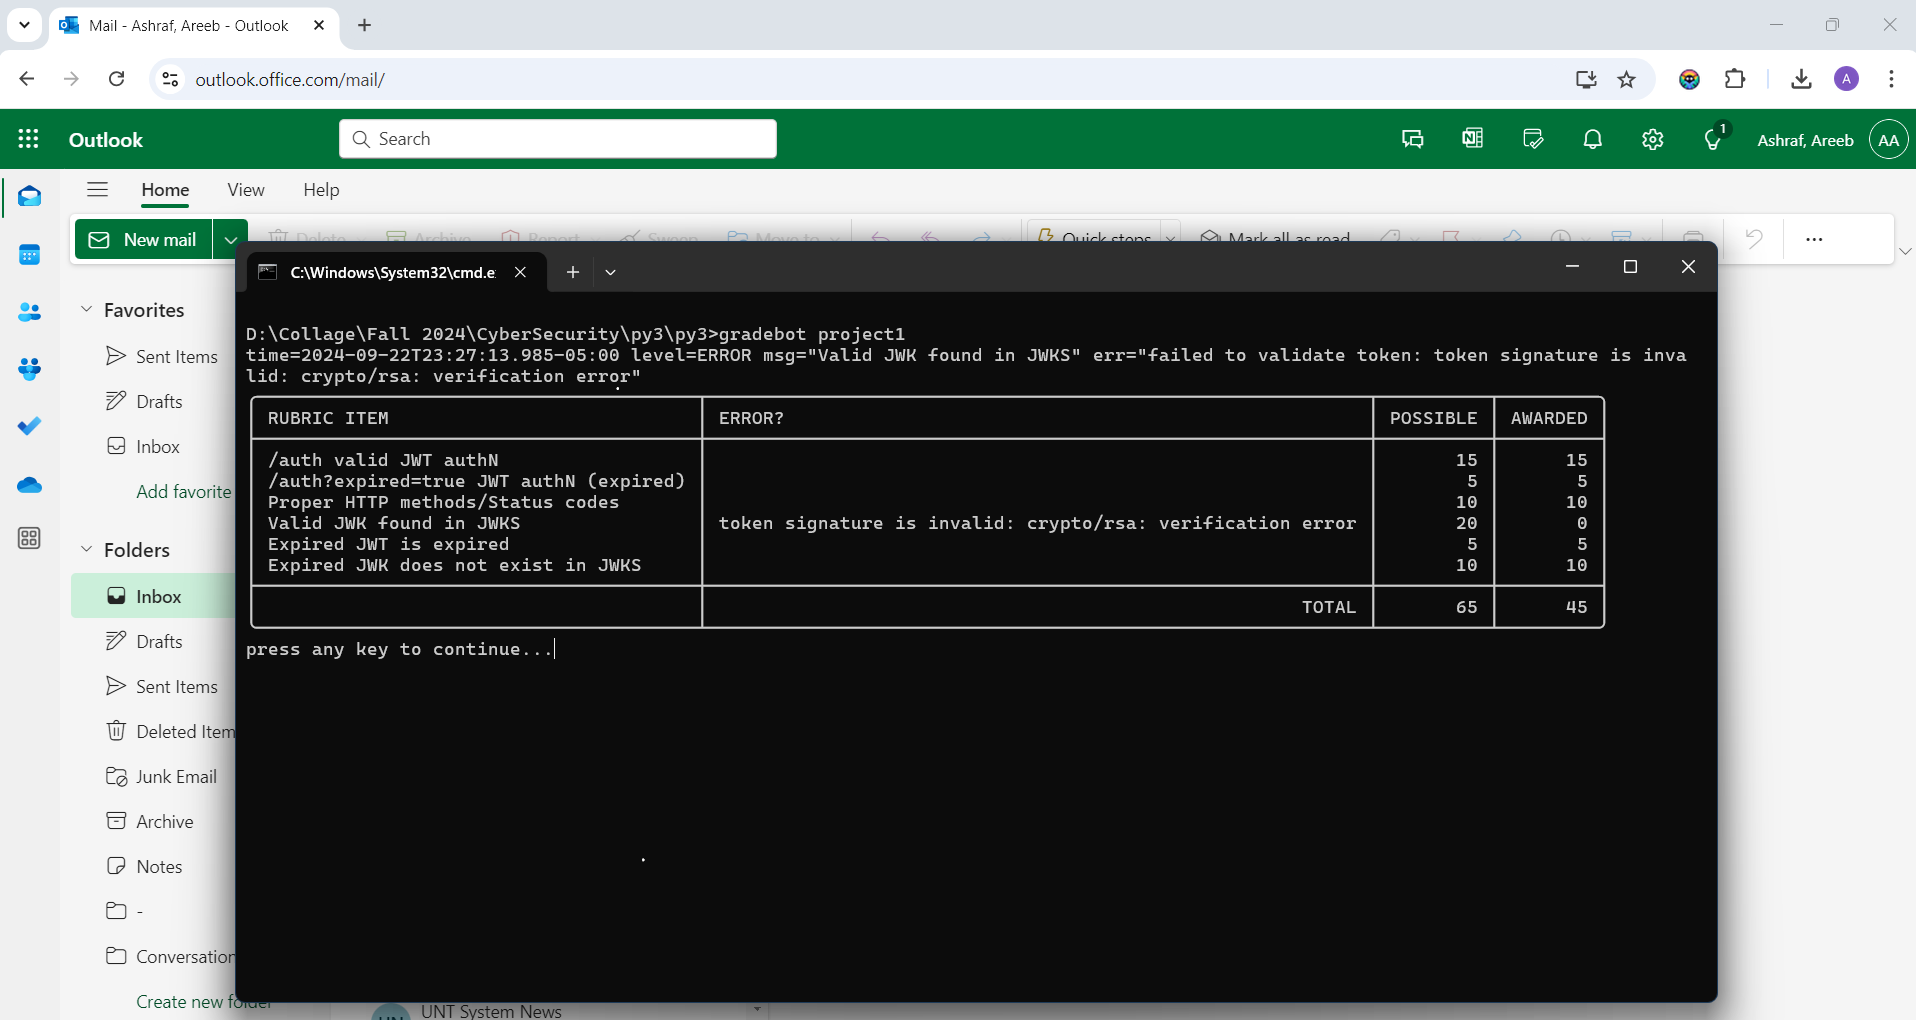
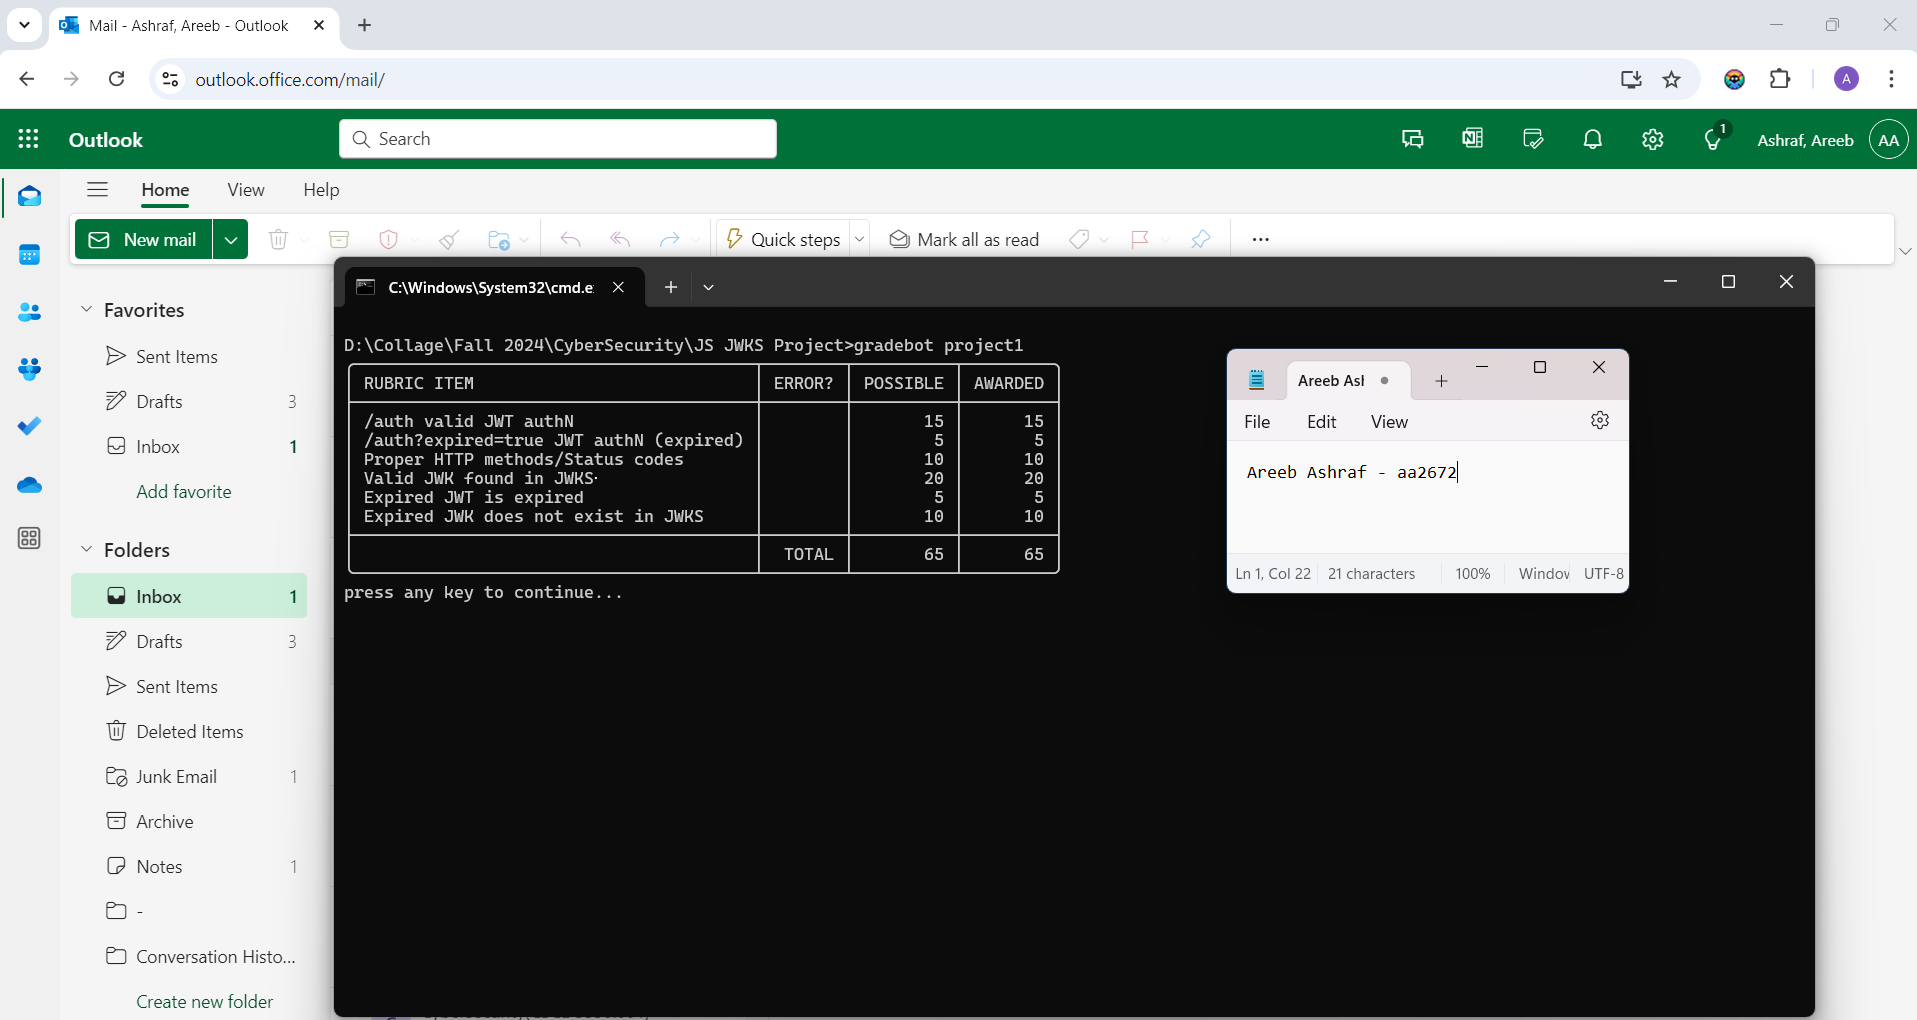
jwks

diff --git a/server.js b/server.js
@@ -10,22 +10,18 @@ const port = 8080; // Define the port where the server will listen
 
 // Function to generate RSA key pairs (private and public keys)
 function createRsaKeys() {
-  // Generate RSA key pair with 2048 bits and a public exponent of 65537 (0x10001)
   const keyPair = forge.pki.rsa.generateKeyPair({ bits: 2048, e: 0x10001 });
   return keyPair;
 }
 
-// Generate two key pairs: one for the active key and another for an expired key
+// Generate key pairs
 const activeKeyPair = createRsaKeys();
 const expiredKeyPair = createRsaKeys();
 
-// Helper function to convert large integers to Base64URL-encoded strings
+// Helper function to properly convert large integers to Base64URL-encoded strings
 function integerToBase64(value) {
-  // Convert the integer to a hexadecimal string
-  const hexValue = value.toString(16);
-  // Convert the hex string to a Buffer and then to Base64URL
-  const byteBuffer = Buffer.from(hexValue, "hex");
-  return base64url(byteBuffer); // Return Base64URL-encoded result
+  const byteBuffer = Buffer.from(value.toString(16), "hex");
+  return base64url(byteBuffer);
 }
 
 // Function to get the PEM-formatted private key from the key pair
@@ -33,52 +29,45 @@ function getPemPrivateKey(keyPair) {
   return forge.pki.privateKeyToPem(keyPair.privateKey);
 }
 
-// Convert the private keys to PEM format
+// Convert private keys to PEM format
 const activePrivateKeyPem = getPemPrivateKey(activeKeyPair);
 const expiredPrivateKeyPem = getPemPrivateKey(expiredKeyPair);
 
-// Middleware to handle unsupported HTTP methods (PUT, PATCH, DELETE, HEAD)
+// Middleware for unsupported HTTP methods
 app.use((req, res, next) => {
-  // If the method is unsupported, respond with a 405 status
   if (["PUT", "PATCH", "DELETE", "HEAD"].includes(req.method)) {
-    res.status(405).send("Method Not Allowed");
-  } else {
-    next(); // Otherwise, pass the request to the next middleware
+    return res.status(405).send("Method Not Allowed");
   }
+  next();
 });
 
 // POST /auth endpoint for JWT creation
 app.post("/auth", (req, res) => {
-  const isTokenExpired = req.query.expired; // Check if the request is asking for an expired token
+  const isTokenExpired = req.query.expired;
 
-  // Define JWT header with key ID (kid) indicating which key was used to sign the token
   const jwtHeader = {
     kid: isTokenExpired ? "expiredKID" : "activeKID",
   };
 
-  // Define the token payload (claims), including the user and expiration time
   const tokenPayload = {
     user: "username",
-    exp: Math.floor(Date.now() / 1000) + (isTokenExpired ? -3600 : 3600), // Expiration set based on query
+    exp: Math.floor(Date.now() / 1000) + (isTokenExpired ? -3600 : 3600), // Set expiration
   };
 
-  // Select the appropriate private key depending on whether the token is expired
   const privateKeyToUse = isTokenExpired
     ? expiredPrivateKeyPem
     : activePrivateKeyPem;
 
-  // Sign the token using the RS256 algorithm and send it in the response
   const signedJwt = jwt.sign(tokenPayload, privateKeyToUse, {
     algorithm: "RS256",
     header: jwtHeader,
   });
 
-  res.status(200).send(signedJwt); // Send the signed JWT token as the response
+  res.status(200).send(signedJwt);
 });
 
-// GET /.well-known/jwks.json endpoint for providing JWKS (JSON Web Key Set)
+// GET /.well-known/jwks.json endpoint for JWKS
 app.get("/.well-known/jwks.json", (req, res) => {
-  // Construct the JWKS response, containing the public part of the RSA key
   const jwks = {
     keys: [
       {
@@ -86,22 +75,21 @@ app.get("/.well-known/jwks.json", (req, res) => {
         kty: "RSA",
         use: "sig",
         kid: "activeKID",
-        n: integerToBase64(activeKeyPair.publicKey.n),
-        e: integerToBase64(activeKeyPair.publicKey.e),
+        n: integerToBase64(activeKeyPair.publicKey.n), // Ensure proper Base64URL encoding
+        e: "AQAB", // Correct exponent encoding for 65537
       },
     ],
   };
 
-  // Send the JWKS response as a JSON object
   res.status(200).json(jwks);
 });
 
-// Handle all other routes by responding with 405 (Method Not Allowed)
+// Handle unsupported routes
 app.all("*", (req, res) => {
-  res.status(405).send("Method Not Allowed");
+  return res.status(405).send("Method Not Allowed");
 });
 
-// Start the server on the specified port
+// Start the server
 app.listen(port, () => {
   console.log(`Server running at http://localhost:${port}`);
 });
